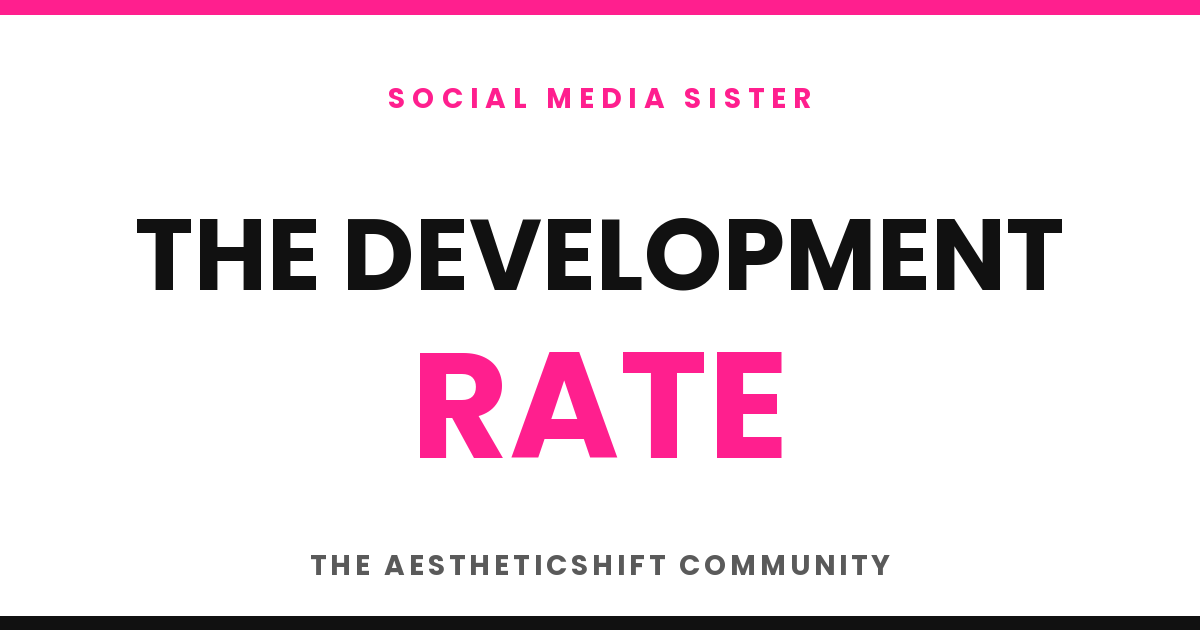
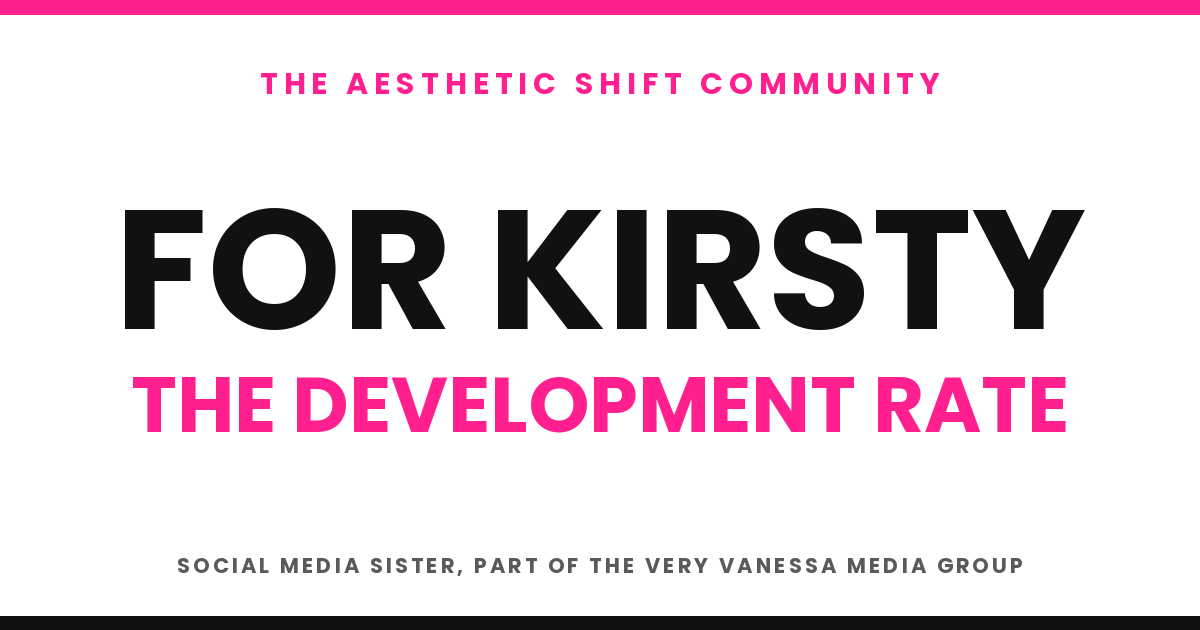
Brand Kirsty pages and thumbnails as The Aesthetic Shift Community, part of Very Vanessa Media Group
Claude-Session: https://claude.ai/code/session_017kNL1Xszb8qUN4N33Xr8Yz

Changed region(s): [[0.0925, 0.3317, 0.925, 0.754], [0.1542, 0.8746, 0.8633, 0.9349], [0.2158, 0.1206, 0.8017, 0.181]]

diff --git a/netlify/edge-functions/lib/previews-sales.ts b/netlify/edge-functions/lib/previews-sales.ts
@@ -9,7 +9,7 @@ export const SALES_PREVIEWS: { id: string; paths: string[]; title: string; desc:
   { id: "freehouseproposal18", paths: ["/freehouseproposal18"], title: "Freehouse Socials sales partner: the plain English version", desc: "The short, simple version of the Freehouse Socials proposal. What you do, what you earn, and how to start." },
   { id: "freehousesales", paths: ["/freehousesales"], title: "Freehouse Socials sales dashboard", desc: "Partner login. Log your leads and track your commission." },
   { id: "salesproposal", paths: ["/salesproposal"], title: "Social Media Sister sales partner proposal", desc: "What you earn, how it works and what to say. Bring in new clinics and earn 25% of every package." },
-  { id: "kirstyproposal", paths: ["/kirstyproposal"], title: "The AestheticShift Community: the development rate", desc: "£222 a month for your clinics, fixed for a year, and £22 a month for you on every clinic that joins." },
-  { id: "smskirsty", paths: ["/smskirsty"], title: "The development rate: apply with Social Media Sister", desc: "£222 a month for a whole year, fixed price. By application only. Four quick questions and we talk." },
+    { id: "kirstyproposal", paths: ["/kirstyproposal"], title: "For Kirsty: The Aesthetic Shift Community development rate", desc: "£222 a month for your clinics, fixed for a year, and £22 a month for you on every clinic that joins. Social Media Sister, part of the Very Vanessa Media Group." },
+    { id: "smskirsty", paths: ["/smskirsty"], title: "The Aesthetic Shift Community: the development rate", desc: "£222 a month for a whole year, fixed price. By application only. Social Media Sister, part of the Very Vanessa Media Group." },
   { id: "salesdashboard", paths: ["/salesdashboard"], title: "Social Media Sister sales dashboard", desc: "Partner login. Log your leads and track your commission." },
 ];

diff --git a/artifacts/carousel-generator/src/pages/kirsty-proposal.tsx b/artifacts/carousel-generator/src/pages/kirsty-proposal.tsx
@@ -35,8 +35,8 @@ export default function KirstyProposal() {
       <style>{CSS}</style>
       <div className="kp-w">
         <div className="kp-top">
-          <span>The AestheticShift Community</span>
-          <span>From Vanessa</span>
+          <span>The Aesthetic Shift Community</span>
+          <span>For Kirsty</span>
         </div>
 
         <h1>
@@ -105,7 +105,7 @@ export default function KirstyProposal() {
           </p>
         </div>
 
-        <div className="kp-foot">Very Vanessa Media Group &middot; Social Media Sister</div>
+        <div className="kp-foot">Social Media Sister, part of the Very Vanessa Media Group</div>
       </div>
     </div>
   );

diff --git a/artifacts/carousel-generator/src/pages/sms-kirsty.tsx b/artifacts/carousel-generator/src/pages/sms-kirsty.tsx
@@ -94,7 +94,7 @@ export default function SmsKirsty() {
       <style>{CSS}</style>
       <div className="sk-w">
         <div className="sk-top">
-          <span>Social Media Sister</span>
+          <span>The Aesthetic Shift Community</span>
           <span>By application</span>
         </div>
 
@@ -181,6 +181,9 @@ export default function SmsKirsty() {
             </p>
           </>
         )}
+        <p className="sk-sm" style={{ marginTop: 40, fontWeight: 900, letterSpacing: ".12em", textTransform: "uppercase" }}>
+          Social Media Sister, part of the Very Vanessa Media Group
+        </p>
       </div>
     </div>
   );
